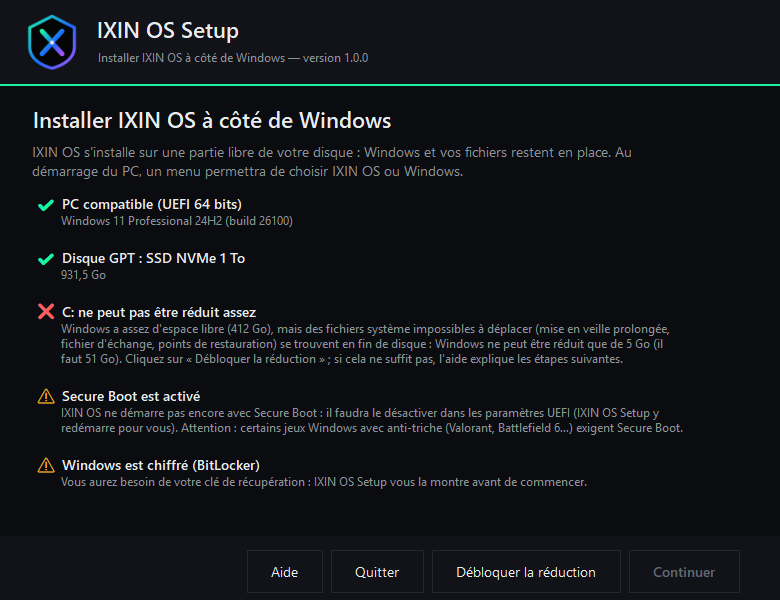
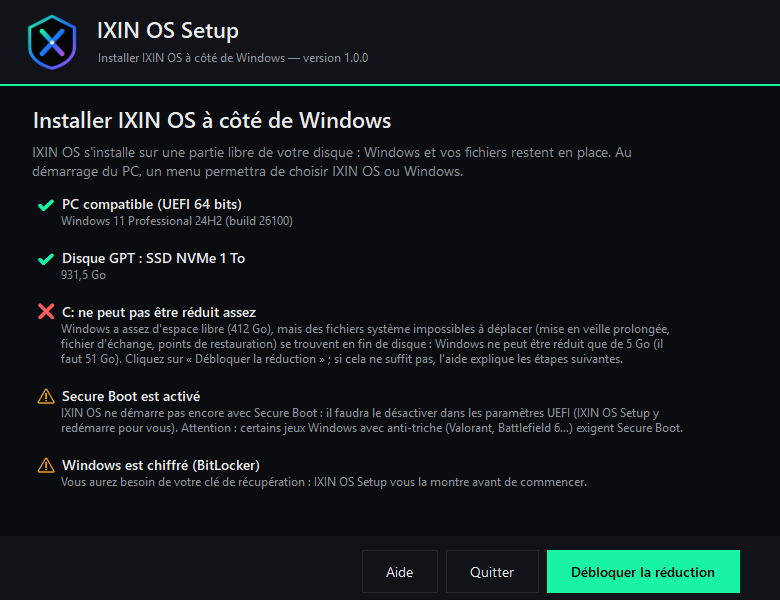
Docs : captures d'IXIN OS Setup mises à jour (options avancées, partition EFI sur un autre disque)
Claude-Session: https://claude.ai/code/session_012gVJg5y5f1XFaeWzCvqDSH

Changed region(s): [[0.5846, 0.9, 0.9538, 0.99], [0.4615, 0.93, 0.5231, 0.96], [0.3385, 0.93, 0.4, 0.96]]

diff --git a/docs/CONTEXTE-IXIN-OS.md b/docs/CONTEXTE-IXIN-OS.md
@@ -92,7 +92,9 @@ BitLocker on, Secure Boot on. Nothing is real: the BitLocker key shown is fake. 
 1. `ixin-os-setup-1-analyse.png`: "Analyse du PC…"
 2. `ixin-os-setup-2-verification.png`: check of the PC (✔ compatible UEFI PC, ✔ GPT disk, ✔ space available,
    ⚠ Secure Boot on, ⚠ Windows encrypted with BitLocker)
-3. `ixin-os-setup-3-espace.png`: choosing the space for IXIN OS (slider, 80 GB) and the download
+3. `ixin-os-setup-3-espace.png`: choosing the space for IXIN OS (slider, 80 GB) — the only choice for beginners
+   - `ixin-os-setup-3b-options-avancees.png`: the "Options avancées" page for experienced users (exact size,
+     EFI partition, ISO already downloaded, keep IXIN-SETUP, Windows settings)
 4. `ixin-os-setup-4-cle-bitlocker.png`: the BitLocker recovery key to note (button greyed until confirmed)
 5. `ixin-os-setup-5-confirmation.png`: "Vérifiez avant de commencer", the full list of what will be changed
 6. `ixin-os-setup-6-preparation.png`: preparation in progress (download of IXIN OS)
@@ -101,6 +103,8 @@ BitLocker on, Secure Boot on. Nothing is real: the BitLocker key shown is fake. 
 9. `ixin-os-setup-9-installation-prete.png`: the program reopened before installing ("Annuler la préparation")
 10. `ixin-os-setup-10-ixin-installe.png`: the program reopened once IXIN OS is installed ("Rendre 6 Go à Windows",
     "Remettre le menu IXIN au démarrage")
+- `ixin-os-setup-efi-autre-disque.png`: check of a PC whose EFI partition is on another disk — shown as information,
+  not blocking (such PCs used to be refused).
 - `ixin-os-setup-reduction-bloquee.png`: a blocking check ("C: ne peut pas être réduit assez") with the
   "Débloquer la réduction" button — for a troubleshooting section.
 
